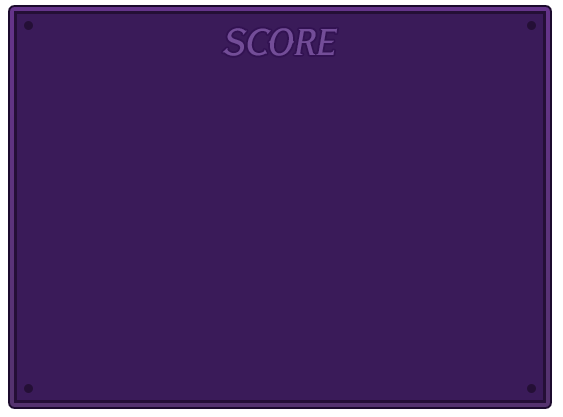
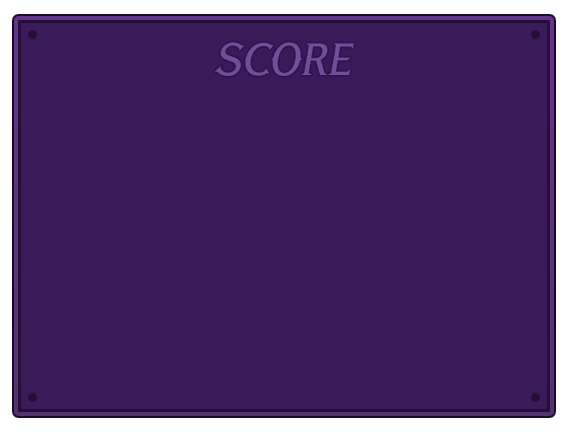
Add files via upload

Changed region(s): [[0.0, 0.0, 0.9964, 0.9976]]

diff --git a/common.css b/common.css
@@ -1,26 +1,26 @@
-@font-face{font-family:'NexonWarhaven';src:url(https://cdn.jsdelivr.net/gh/projectnoonnu/noonfonts_2312-1@1.1/WarhavenR.woff2) format("woff2");font-weight:400;font-display:swap}
+@font-face {
+    font-family: 'NexonWarhaven';
+    src: url('https://cdn.jsdelivr.net/gh/projectnoonnu/noonfonts_2312-1@1.1/WarhavenB.woff2') format('woff2');
+    font-weight: 700;
+    font-display: swap;
+}
 
 /* ================== TOKENS ================== */
 :root {
     --stage-w: 532px;
     --stage-h: 392px;
 
-    --label-w: 96px;
-    --gauge-h: 18px;
-    --gap: 10px;
-    --radius: 999px;
+    --label-w: 70px;
+    --gauge-h: 24px;
+    --gap: 8px;
+    --radius: 5px;
 
     /* colors */
-    --txt: #e8ecff;
-    --muted: #aeb7e8;
+    --txt: #ffffff;
+    --muted: #ffffff;
     --bg-soft: rgba(12,14,32,0.08);
-    --track: linear-gradient(180deg, #141736, #0d0f28);
-    --fill:  linear-gradient(90deg, #7aa2ff, #ff83c0);
-    --fill-glow: #7aa2ff66;
-}
-
-.font {
-    font-family: 'NexonWarhaven';
+    --track: #96909e;
+    --fill:  #d2ced8;
 }
 
 html, body {
@@ -32,7 +32,6 @@ html, body {
     font-family: ui-sans-serif, system-ui, -apple-system, Segoe UI, Roboto, "Noto Sans KR", sans-serif;
     -webkit-font-smoothing: antialiased;
     -moz-osx-font-smoothing: grayscale;
-    background: transparent;
 }
 
 .stage {
@@ -46,16 +45,12 @@ html, body {
     display: grid;
     grid-auto-rows: 1fr;
     row-gap: var(--gap);
-
-    background-image: url(/images/score.png);
-    background-position: top left;
-    background-repeat: no-repeat;
-    background-size: 100%;
 }
 
 .gaugeWrap {
-    margin-top: 60px;
-    padding: 10px;
+    margin-top: 74px;
+    padding: 30px;
+    padding-top: 0;
 }
 
 .row {
@@ -67,15 +62,17 @@ html, body {
   align-items: center;
   column-gap: var(--gap);
   min-height: 1px;
+  margin-bottom: 6px;
 }
 
 .label {
-  font-weight: 800;
-  letter-spacing: .02em;
-  color: var(--muted);
-  overflow: hidden;
-  text-overflow: ellipsis;
-  white-space: nowrap;
+    letter-spacing: .02em;
+    color: var(--muted);
+    overflow: hidden;
+    text-overflow: ellipsis;
+    white-space: nowrap;
+    font-family: 'NexonWarhaven';
+    font-size: 23px;
 }
 
 .gauge {
@@ -83,9 +80,6 @@ html, body {
   height: var(--gauge-h);
   border-radius: var(--radius);
   background: var(--track);
-  box-shadow:
-    inset 0 -4px 8px rgba(0,0,0,.25),
-    inset 0 0 0 1px rgba(255,255,255,.06);
   overflow: hidden;
 }
 
@@ -94,29 +88,30 @@ html, body {
   inset: 0;
   width: 0%;
   background: var(--fill);
-  box-shadow:
-    0 0 18px var(--fill-glow),
-    inset 0 -6px 10px rgba(0,0,0,.25);
   transition: width 280ms ease;
 }
 
 .btn, .num {
-  height: 36px;
-  border: none;
-  border-radius: 10px;
-  box-sizing: border-box;
-  background: #0f1230;
-  color: var(--txt);
-  font-weight: 900;
-  letter-spacing: .02em;
-  padding: 0 12px;
-  box-shadow: inset 0 0 0 2px rgba(255,255,255,.06);
+    text-align: center;
+    border: none;
+    border-radius: 10px;
+    box-sizing: border-box;
+    color: var(--txt);
+    font-weight: 900;
+    letter-spacing: .02em;
+    padding: 0;
+    box-shadow: inset 0 0 0 2px rgba(255,255,255,.06);
+    padding: 5px;
+}
+
+.num {
+    background: var(--fill);
 }
 
 .btn {
-  min-width: 44px;
-  cursor: pointer;
-  user-select: none;
+    background: var(--track);
+    cursor: pointer;
+    user-select: none;
 }
 
 .btn:hover {

diff --git a/index.html b/index.html
@@ -16,7 +16,7 @@
       <div class="gaugeWrap">
         <!-- 1행 -->
         <div class="row" data-row="1">
-          <div class="label" id="label-1">메이드 카페</div>
+          <div class="label" id="label-1">노래</div>
           <div class="gauge" id="gauge-1" aria-hidden="true">
             <div class="fill" id="fill-1" style="width:0%"></div>
           </div>
@@ -26,8 +26,8 @@
         </div>
 
         <!-- 2행 -->
-        <div class="row" data-row="1">
-          <div class="label" id="label-1">메이드 카페</div>
+        <div class="row" data-row="2">
+          <div class="label" id="label-1">대사</div>
           <div class="gauge" id="gauge-1" aria-hidden="true">
             <div class="fill" id="fill-1" style="width:0%"></div>
           </div>
@@ -37,8 +37,8 @@
         </div>
 
         <!-- 3행 -->
-        <div class="row" data-row="1">
-          <div class="label" id="label-1">메이드 카페</div>
+        <div class="row" data-row="3">
+          <div class="label" id="label-1">말투</div>
           <div class="gauge" id="gauge-1" aria-hidden="true">
             <div class="fill" id="fill-1" style="width:0%"></div>
           </div>
@@ -48,8 +48,8 @@
         </div>
 
         <!-- 4행 -->
-        <div class="row" data-row="1">
-          <div class="label" id="label-1">메이드 카페</div>
+        <div class="row" data-row="4">
+          <div class="label" id="label-1">면제권</div>
           <div class="gauge" id="gauge-1" aria-hidden="true">
             <div class="fill" id="fill-1" style="width:0%"></div>
           </div>
@@ -59,8 +59,8 @@
         </div>
 
         <!-- 5행 -->
-        <div class="row" data-row="1">
-          <div class="label" id="label-1">메이드 카페</div>
+        <div class="row" data-row="5">
+          <div class="label" id="label-1">메이드</div>
           <div class="gauge" id="gauge-1" aria-hidden="true">
             <div class="fill" id="fill-1" style="width:0%"></div>
           </div>
@@ -70,8 +70,8 @@
         </div>
 
         <!-- 6행 -->
-        <div class="row" data-row="1">
-          <div class="label" id="label-1">메이드 카페</div>
+        <div class="row" data-row="6">
+          <div class="label" id="label-1">똥겜</div>
           <div class="gauge" id="gauge-1" aria-hidden="true">
             <div class="fill" id="fill-1" style="width:0%"></div>
           </div>
@@ -81,8 +81,8 @@
         </div>
 
         <!-- 7행 -->
-        <div class="row" data-row="1">
-          <div class="label" id="label-1">메이드 카페</div>
+        <div class="row" data-row="7">
+          <div class="label" id="label-1">연장</div>
           <div class="gauge" id="gauge-1" aria-hidden="true">
             <div class="fill" id="fill-1" style="width:0%"></div>
           </div>
@@ -92,8 +92,8 @@
         </div>
 
         <!-- 8행 -->
-        <div class="row" data-row="1">
-          <div class="label" id="label-1">메이드 카페</div>
+        <div class="row" data-row="8">
+          <div class="label" id="label-1">공겜</div>
           <div class="gauge" id="gauge-1" aria-hidden="true">
             <div class="fill" id="fill-1" style="width:0%"></div>
           </div>
